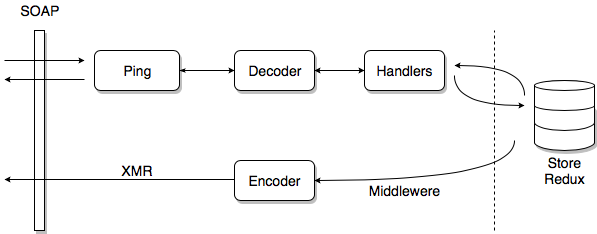
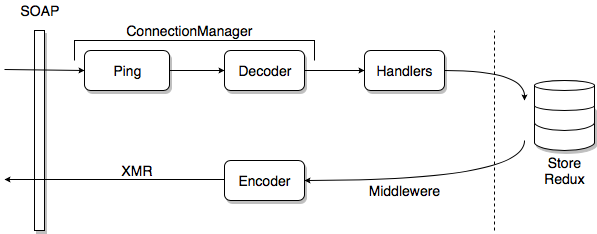
Schema architettura

diff --git a/res/sections/12-Design.tex b/res/sections/12-Design.tex
@@ -4,28 +4,32 @@
 
 \section {Progettazione architetturale}
 \subsection{Architettura OpenChat}
+\begin{figure}[H] 
+	\centering
+	\includegraphics[scale=0.5]{architettura2}
+	\caption{Architettura OpenChat}
+\end{figure}
+\note{
 Avendo dovuto basare l'applicazione Teamwork sulla soluzione già implementata per il web dalla zimlet OpenChat è utile approfondire la sua architettura.
+La zimlet OpenChat interagisce con Zimbra grazie a delle connessioni SOAP. Questo permette la ricezione e l'invio di eventi anche da più sessioni contemporaneamente, mantenendo tra loro la sincronizzazione.\\
+l connection manager si occupa della ricezione degli eventi:
+
+	-il Ping serve a tenere aperta la connessione una volta creata e ad "ascoltare" la connessione in modo da rendere reattiva l'applicazione alla ricezione degli eventi;
+	- ricevuto un evento il decoder ha il compito di decodificarlo, trasformandolo da un file JSON ad una classe meglio gestibile.
+Una volta ottenuto un evento tramite degli handlers sarà facilmente aggiornato lo store Redux con cui è gestita l'informazione lato front-end.
+}
+
+\subsection{Connessione}
 \begin{figure}[H] 
 	\centering
 	\includegraphics[scale=0.6]{architettura}
 	\caption{Architettura OpenChat}
 \end{figure}
-La zimlet OpenChat interagisce con Zimbra grazie a delle connessioni SOAP. Questo permette la ricezione e l'invio di eventi anche da più sessioni contemporaneamente \mmh{e tutte sincronizzate tra di loro.}{, mantenendo tra loro la sincronizzazione/mantenendole sincronizzate}\\
-Il connection manager si occupa della ricezione degli eventi:
-\begin{itemize}
-	\item il Ping serve a tenere aperta la connessione una volta creata e ad "ascolare" la connessione in modo da rendere reattiva l'applicazione alla ricezione degli eventi;
-	\item \mmh{arrivato}{ricevuto?} un evento il decoder ha il compito di decodificarlo, trasformandolo da un file JSON ad una classe meglio gestibile.
-\end{itemize}
-Una volta ottenuto un evento tramite degli handlers sarà facilmente aggiornato lo store Redux con cui è gestita l'informazione lato front-end.
 
-\note{ Modificare immagine, capire come mandano loro le informazioni}
-
-\subsection{Modifiche architettura}
-\note{cambiato un po' come arrivano gli eventi e tutto su come gli mando}
 
 \section{Progettazione grafica}
 Prima di procedere alla definizione delle classi necessarie per l'implementazione 
-dell'applicazione è stato deciso di effettuare la progettazione \mmh{grafica della UI}{secondo me basta la progettazione della UI o la progettazione della grafica dell'app} per far 
+dell'applicazione è stato deciso di effettuare la progettazione della UI per far 
 si che il progetto di stage abbracciasse a 360 gradi il processo di sviluppo di 
 un'applicazione da parte di un'azienda.
 
@@ -49,7 +53,7 @@ di esse e quali elementi realmente soddisfino i requisiti già studiati.
 Il risultato, comunque, è stato molto vicino alla GUI ottenuta alla fine della 
 codifica in quando i wireframe sono stati disegnati tenendo conto della 
 soluzione web già presente.\\ 
-Questo passo è stato essenziale \mmh{per farsi un'idea più chiara di come proseguire per ottenere il risultato desiderato}{non mi piace, sembra troppo colloquiale, metterei tipo \emph{per rendere più chiara l'idea del prodotto desiderato.}}.
+Questo passo è stato essenziale per rendere più chiara l'idea del prodotto desiderato.
 
 \subsection{Linee guida}
 Per quanto riguarda la GUI vera e propria sono state fornite dall'azienda delle 

diff --git a/res/listOfSections.tex b/res/listOfSections.tex
@@ -8,6 +8,7 @@
 \input{res/sections/08-Company.tex}
 \input{res/sections/09-Project.tex}
 \input{res/sections/10-Technologies.tex}
+\input{res/sections/11-1-UC.tex}
 \input{res/sections/11-RequirementsAnalysis.tex}
 \input{res/sections/12-Design.tex}
 \input{res/sections/14-Tests.tex}
